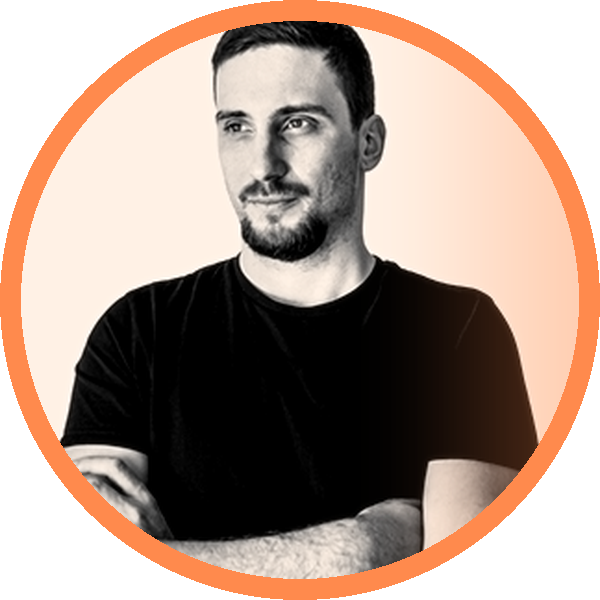
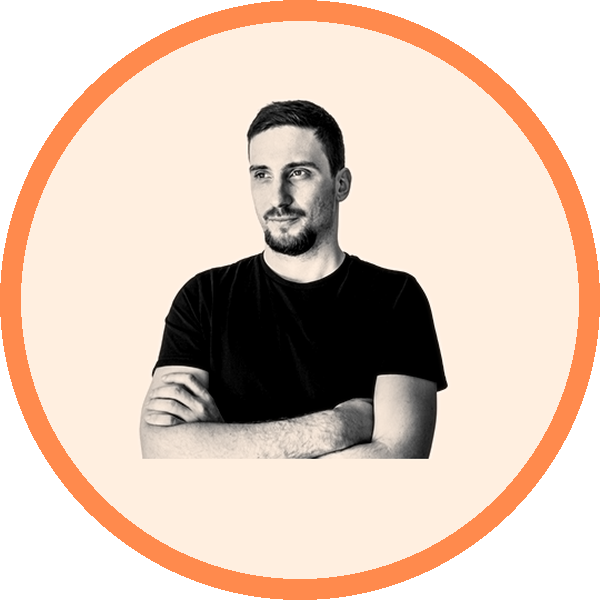
Improve portfolio card contrast and refine Petr Štěpán photo
Portfolio cards:
- Stronger resting border (#cbd5e1 vs #e2e8f0)
- Resting drop shadow for visual lift on white-on-white background
- Hover: orange-tinted shadow + accent gradient stripe at top edge
- Subtle border between thumb and body for clearer separation

Photo:
- Re-rendered with 20% padding and small upward subject shift so the head
  is centred inside the circular frame (previously cropped at the top edge)
- Removed directional rim glow that was creating a visible photo edge
- Same warm-highlight duotone treatment

Title:
- Add "Ing." in front of Petr Štěpán's name in the CTA contact card

diff --git a/app/styles/v2-extras.css b/app/styles/v2-extras.css
@@ -33,9 +33,11 @@
 .case-grid{display:grid;grid-template-columns:repeat(3,1fr);gap:22px}
 @media(max-width:1080px){.case-grid{grid-template-columns:repeat(2,1fr)}}
 @media(max-width:680px){.case-grid{grid-template-columns:1fr}}
-.case-card{background:#fff;border:1px solid #e2e8f0;border-radius:20px;overflow:hidden;transition:all .35s var(--ease-out);height:100%;display:flex;flex-direction:column}
-.case-card:hover{transform:translateY(-6px);box-shadow:0 28px 50px -20px rgba(15,23,42,.18);border-color:#cbd5e1}
-.case-thumb{position:relative;height:170px;display:flex;align-items:center;justify-content:center;overflow:hidden}
+.case-card{position:relative;background:#fff;border:1px solid #cbd5e1;border-radius:20px;overflow:hidden;transition:all .35s var(--ease-out);height:100%;display:flex;flex-direction:column;box-shadow:0 1px 2px rgba(15,23,42,.04),0 10px 26px -14px rgba(15,23,42,.18)}
+.case-card::before{content:"";position:absolute;top:0;left:0;right:0;height:3px;background:linear-gradient(90deg,var(--accent),var(--accent-2));opacity:0;transition:opacity .35s var(--ease-out);z-index:2}
+.case-card:hover{transform:translateY(-6px);box-shadow:0 4px 8px rgba(15,23,42,.06),0 32px 56px -16px rgba(255,138,77,.22),0 24px 48px -20px rgba(15,23,42,.18);border-color:#94a3b8}
+.case-card:hover::before{opacity:1}
+.case-thumb{position:relative;height:170px;display:flex;align-items:center;justify-content:center;overflow:hidden;border-bottom:1px solid #e2e8f0}
 .case-thumb-grid{position:absolute;inset:0;background-image:linear-gradient(rgba(255,255,255,.16) 1px,transparent 1px),linear-gradient(90deg,rgba(255,255,255,.16) 1px,transparent 1px);background-size:32px 32px;opacity:.6;mask-image:radial-gradient(ellipse 80% 80% at 50% 50%,black 30%,transparent)}
 .case-thumb-mark{position:relative;font-family:var(--font-mono),"Geist Mono",ui-monospace;color:rgba(255,255,255,.92);font-weight:600;font-size:34px;letter-spacing:-0.03em;text-shadow:0 4px 30px rgba(0,0,0,.35);text-transform:lowercase}
 .case-body{padding:22px 22px 24px;display:flex;flex-direction:column;flex:1}

diff --git a/components/v2/CTA.tsx b/components/v2/CTA.tsx
@@ -41,7 +41,7 @@ export function CTA() {
             </div>
             <div className="cta-contact-body">
               <div className="cta-contact-eyebrow">Volejte přímo</div>
-              <div className="cta-contact-name">Petr Štěpán</div>
+              <div className="cta-contact-name">Ing. Petr Štěpán</div>
               <div className="cta-contact-role">Vedoucí výkonnostních kampaní a analytiky</div>
               <div className="cta-contact-links">
                 <a href="tel:+420724443968" className="cta-contact-phone">
